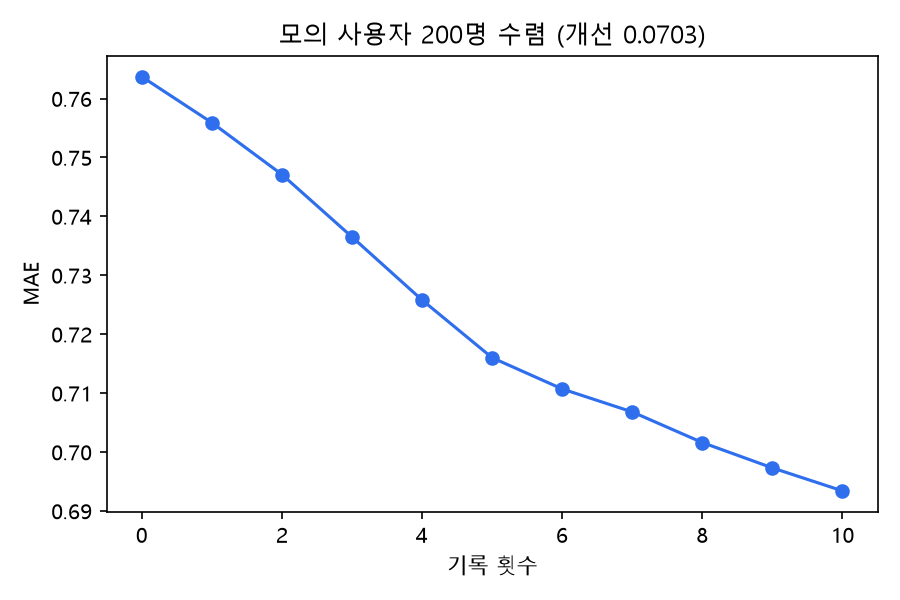
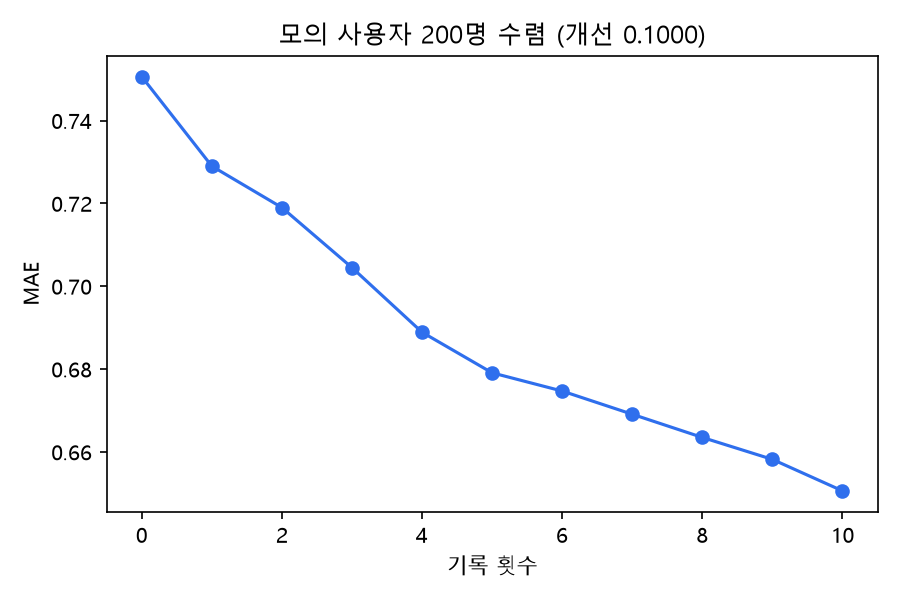
docs: 오픈판 브랜드 값·특징 모델 반영, 재적재 후 커버리지·공모전 수치 갱신
- ADR 0012 "오픈판 브랜드 값" 절(우선순위·20개 원두 표·한계), ADR 0011 후속 메모.
- README: 오픈판 속성 예측은 이웃 평균만이 아니라 산미·단맛 특징 모델(ADR 0011), 국내 로스터리 209건
  (217건 중 블루보틀 중복 8건 제외), 전체 DB 재적재 커버리지 9,257/디카페인 180/태그 7,616.
- 공모전 초안: render_numbers.py로 수치 블록 재생성(원두 1,864·디카페인 25·LOO·수렴), 본문 수치 동기화,
  compare3 시점 디카페인 수치에 주석. 수렴 그림 재생성.
- violations 0/102(전체·오픈 모두).

Claude-Session: https://claude.ai/code/session_01RNMVqK4ExyuYrxuAd2885V

diff --git a/docs/adr/0012-official-brand-beans.md b/docs/adr/0012-official-brand-beans.md
@@ -105,16 +105,73 @@
   공식 문구가 말하지 않는 값은 모델이 사실상 사전값에 가깝게 답한다(메가 산미 2.44 등). 그래서 향미 태그는 모델보다
   공식 단어를 우선했고, 공식 단어가 없을 때 모델 태그(메가 디카페인 "woody" 0.85 등)는 출처가 `official_notes_model`
   로 남는다.
-- **오픈판**: 같은 `brands.yaml`을 쓰므로 오픈판 카드도 이 값을 쓴다. 값 자체는 공식 페이지 사실 + 규칙/모델 출력이며
-  리뷰 원문을 담지 않는다. 다만 모델은 전체판(coffeereview 포함 학습)이다 — 오픈판에서 이 값을 쓰는 게 라이선스상
-  문제인지는 공모전 문서 쪽(ADR 0011 담당)에서 판단할 일로 남긴다.
+- **오픈판**: 처음엔 같은 `brands.yaml` 값을 오픈판 카드도 썼는데, 그 모델은 전체판(coffeereview 라벨로 학습,
+  [ADR 0008](0008-learned-tag-model.md)/[0009](0009-learned-attribute-model.md))이라 제출본에 둘 수 없다 → 아래
+  [오픈판 브랜드 값](#오픈판-브랜드-값)에서 라이선스 제약 없는 출처만으로 따로 만든다.
 - 공식 게이지가 생기면(`gauges`) 스크립트가 그 값을 먼저 쓴다. 투썸(봇 차단)·컴포즈(설명 없음)는 브랜드가 공개하기
   전까지 추정이다.
+
+## 오픈판 브랜드 값
+
+오픈판(`DATA_VARIANT=open`, 공모전 제출본)은 coffeereview에서 나온 것은 아무것도 담으면 안 되는데, 위 값의
+`official_notes_model`은 coffeereview 라벨로 학습한 전체판 속성/태그 모델(`config/attr_model.json`,
+`config/tag_model.json`) 출력이다. 그래서 `brands.yaml`에 오픈판 전용 `bean_open`/`decaf_bean_open`을 따로 두고
+(`BrandRecord`·`brands` 테이블 같은 이름의 컬럼), 앱은 `DATA_VARIANT=open`일 때 그 컬럼만 읽는다
+(`app/repo.py` `brand_bean_columns`). `scripts/competition/build_open_db.sh`는 적재 뒤 `coffee_open`의
+`bean`/`decaf_bean`도 오픈 값으로 덮어써 제출본 DB에는 전체판 값이 아예 남지 않는다.
+
+값마다 우선순위(`scripts/derive_brand_beans.py --variant open` → `data/eval/brand_beans_derived_open.json`):
+
+1. `official_gauge` — 공식 1~5 수치(현재 없음).
+2. `official_cue` — 공식 문구의 명시적 단서(`app/core/textcues.attr_cues`: "묵직한 바디", "상큼한", "달콤").
+   향미는 **브랜드가 직접 쓴 향미 단어만**(`official_word_tags`) — 태그 모델은 쓰지 않는다.
+3. `open_feature_model` — 산미·단맛만(바디는 탑재 안 됨): 로스터리 게이지 특징 모델
+   ([ADR 0011](0011-roaster-gauges-feature-model.md), `config/feature_model_open.json`)에 공식 **사실**만 넣는다 —
+   단일 산지 국가(여러 나라면 블렌드; 커피빈의 "원산지: 미국(로스팅 국가)"는 산지가 아님), 공식 로스팅 단계,
+   디카페인 공정(워터 프로세스 → 물 공정), 공식 향미 단어의 SCA 대분류. 브랜드 원두에는 이웃이 없어 `nbr`
+   특징은 중앙값(0)이다. 공식 설명이 아예 없는 원두(`status: unavailable`)에는 쓰지 않는다.
+4. `estimate` — ADR 0012 이전의 손 추정값(`git show bd0a6f6^:data/curated/brands.yaml`, 뉴스·notes 기반).
+
+"문구"=`official_cue`, "특징"=`open_feature_model`(괄호 안은 반올림 전 예측), "추정"=`estimate`. 마지막 열은
+같은 원두의 전체판 값이다.
+
+| 브랜드 | 원두 | 산미 | 바디 | 단맛 | 향미 | 전체판(산미/바디/단맛) |
+|---|---|---|---|---|---|---|
+| 스타벅스 | 하우스 | **2** (특징 1.88) | **4** (추정) | **4.5** (특징 4.3) | caramelized (문구) | 2/4/2.5 |
+| 스타벅스 | 디카페인 | **2** (특징 2.11) | **3** (추정) | **3** (특징 2.89) | chocolate, caramelized (추정) | 2/3/2 |
+| 투썸플레이스 | 하우스 | **2** (추정) | **4** (추정) | **2** (추정) | dark chocolate, nutty (추정) | 2/4/2 |
+| 투썸플레이스 | 디카페인 | **2** (추정) | **3** (추정) | **3** (추정) | chocolate, nutty (추정) | 2/3/3 |
+| 메가MGC커피 | 하우스 | **2** (특징 2.18) | **4.5** (문구 "묵직한 바디") | **3.5** (특징 3.64) | nutty, dark chocolate (추정) | 2.5/4.5/3.5 |
+| 메가MGC커피 | 디카페인 | **2** (특징 2.16) | **4.5** (문구 "묵직한 바디") | **3.5** (특징 3.42) | nutty, chocolate (추정) | 2/4.5/3.5 |
+| 컴포즈커피 | 하우스 | **1** (추정) | **4** (추정) | **2** (추정) | nutty, dark chocolate (추정) | 1/4/2 |
+| 컴포즈커피 | 디카페인 | **2** (추정) | **4** (추정) | **2** (추정) | nutty, dark chocolate (추정) | 2/4/2 |
+| 빽다방 | 하우스 | **1** (특징 1.0) | **4.5** (문구 "묵직한 바디") | **4** (문구 "단맛") | cinnamon, brown sugar, dark chocolate (문구) | 1.5/4.5/4 |
+| 빽다방 | 디카페인 | **2** (추정) | **3** (추정) | **2** (추정) | chocolate (추정) | 2/3/2 |
+| 이디야커피 | 하우스 | **2** (특징 2.18) | **3** (추정) | **3.5** (특징 3.6) | smoky (문구) | 2/4/3 |
+| 이디야커피 | 디카페인 | **2** (추정) | **3** (추정) | **3** (추정) | chocolate, caramelized (추정) | 2/3/3 |
+| 할리스 | 하우스 | **1.5** (문구 "부드러운 산미") | **3** (추정) | **3.5** (특징 3.64) | chocolate, nutty (추정) | 1.5/3/4 |
+| 할리스 | 디카페인 | **2** (특징 2.16) | **2** (추정) | **4** (문구 "단맛") | brown sugar (추정) | 2.5/2/4 |
+| 폴바셋 | 하우스 | **4.5** (문구 "상큼한") | **3** (추정) | **4** (문구 "Sweet") | chocolate (문구) | 4.5/3.5/4 |
+| 폴바셋 | 디카페인 | **2** (특징 2.16) | **3** (추정) | **3.5** (특징 3.42) | chocolate, citrus fruit (추정) | 3/3/3.5 |
+| 블루보틀 | 하우스 | **2** (특징 1.81) | **3** (추정) | **4** (문구 "달콤") | chocolate (문구) | 2/4/4 |
+| 블루보틀 | 디카페인 | **2** (특징 2.15) | **3** (추정) | **4** (문구 "단맛") | molasses (문구) | 3/2.5/4 |
+| 커피빈 | 하우스 | **2** (특징 1.96) | **4** (추정) | **4** (특징 4.19) | dark chocolate, caramelized (추정) | 2/4/2 |
+| 커피빈 | 디카페인 | **2** (특징 2.02) | **3** (추정) | **4** (문구 "달콤") | caramelized (문구) | 2/2.5/4 |
+
+출처 분포(값 80개): 문구 18 · 특징 모델 20 · 추정 42. 여섯 원두(투썸 2·컴포즈 2·빽다방 디카페인·이디야 디카페인)는
+전부 추정이고, 공식 향미 단어가 없는 원두는 향미가 추정으로 남는다(메가·할리스·폴바셋 디카페인 등).
+
+- **특징 모델은 블렌드에 대해 거의 사전값이다.** 브랜드 원두는 대부분 "블렌드/산지 미상"이라 산미는 절편 근처(1.8~2.2
+  → 전부 2)로 모이고, 단맛은 블렌드(+0.68)·강배전(+0.55) 가중치 때문에 스타벅스 하우스 4.3·커피빈 하우스 4.19처럼
+  높게 나온다(로스터리 게이지 라벨에서 배운 "블렌드·강배전 = 단맛 높음" 관행). 전체판(모델 2.37/추정 2)과 방향이
+  다르다 — 라이선스를 지키는 대가로 받아들이고, 값마다 출처를 남겨 둔다.
+- 조건 위반(오픈판 DB `coffee_open`, `data/eval/open/phase2_violations.json`): **0/102** — 전체판과 같다.
 
 ## 재현
 
 ```bash
 uv run python scripts/derive_brand_beans.py --before <이전 brands.yaml>   # → data/eval/brand_beans_derived.json
+uv run python scripts/derive_brand_beans.py --variant open   # 오픈판 → data/eval/brand_beans_derived_open.json + YAML 줄
 # brands.yaml 반영 후 DB에는 brands.bean/decaf_bean만 갱신(또는 pipeline run --only normalize --only load)
 uv run python -m app.eval violations
 ```

diff --git a/docs/competition/data-recipe-draft.md b/docs/competition/data-recipe-draft.md
@@ -78,7 +78,7 @@
 - **도구·기법**: Python, PostgreSQL + pgvector(HNSW), NVIDIA nemotron-3-embed-1b 임베딩(앞 1024차원 사용), 로컬 LLM(qwen3.5 9B)으로 빈 칸 구조화, LangGraph로 추천·원두 분석·기록 흐름을 구성, FastAPI + Next.js 웹앱.
 
 ### A-5. 데이터 개요 및 데이터 활용(분석) 방안 (300자 이상)
-**데이터**: 원두 1,832개(오픈+로스터리판: CQI 1,546 · RoasterDB 100 · 블루보틀 코리아 9 · 국내 로스터리 177), 프랜차이즈 메뉴 304종, 브랜드 10곳의 디카페인 정보, SCA 향미 분류 121개 한국어 매핑. 출처와 라이선스는 아래 3장 표에 정리했다.
+**데이터**: 원두 1,864개(오픈+로스터리판: CQI 1,546 · RoasterDB 100 · 블루보틀 코리아 9 · 국내 로스터리 209), 프랜차이즈 메뉴 304종, 브랜드 10곳의 디카페인 정보, SCA 향미 분류 121개 한국어 매핑. 출처와 라이선스는 아래 3장 표에 정리했다.
 **전처리**: ① 소스별 원본 스냅샷을 날짜별로 저장 ② 공통 스키마로 정규화(산지·가공·로스팅 표기 통일, 이름·설명에서 디카페인 판별) ③ 한국어 향미 노트 단어("초콜릿, 건무화과, 호두")를 SCA 휠 한국어 이름·별칭으로 규칙 매핑 ④ 규칙으로 못 채운 산미·바디·단맛만 로컬 LLM이 JSON 스키마로 채우고, 근거가 없으면 null로 둠 ⑤ 이름·산지·가공·노트를 nemotron-3-embed-1b로 임베딩해 pgvector에 한 트랜잭션으로 적재 ⑥ 우유 포함 여부는 메뉴 이름 302종에 사람이 직접 라벨을 붙여 평가 기준으로 따로 둠.
 **분석**: 하드 조건 필터 → 취향 적합도(속성 0.6 + 향미 0.4) → MMR로 다양성을 살린 상위 3개 → LLM 설명(실패 시 템플릿). 처음 보는 원두는 코사인 유사도 상위 10개 이웃의 가중 평균으로 산미·바디를 예측하고, 이웃 간 일치도로 신뢰도(high/medium/low)를 매긴다. 검증은 CQI 원두 200개를 고정한 leave-one-out으로 하고, 데이터 구성(전체/오픈/오픈+로스터리)만 바꿔 같은 지표를 비교했다.
 
@@ -192,7 +192,7 @@
    자체가 작아 바디 값이 있는 이웃 3개(예측에 필요한 최소치)를 못 채우는 대상이 더 많다.
 
    참고로 CQI로 대상을 제한하지 않고 제출본 DB(`coffee_open`) 전체로 돌린 별도 LOO(`data/eval/open/
-   phase2_loo.json`)는 대상 200개 그대로 나온다 — 산미 ±1 0.5126(n=199, 재라벨 전 0.5202/n=198과
+   phase2_loo.json`)는 대상 200개 그대로 나온다 — 산미 ±1 0.5075(n=199, 재라벨 전 0.5202/n=198과
    거의 같다), 바디는 그 200개 중 실제로 무게감이 있는 **6개뿐**이라 n=6(±1 이내 1.0) — 오픈판은
    CQI(87.7%)가 절대다수라 바디 정답을 가진 원두 자체가 원래도 희소했다는 뜻이다. 자세한 내용은
    [ADR 0010](../adr/0010-body-heaviness.md).
@@ -201,13 +201,13 @@
 
    ![디카페인 후보 수와 top5 표](images/03_decaf_coverage.png)
 
-   디카페인 후보는 전체(coffeereview 포함) 178개, 오픈 6개, 오픈+로스터리(제출본) 23개다. "오픈"의 디카페인+산미 top5는 해외 RoasterDB 4개 + 블루보틀 코리아 1개(5위는 산미 정보가 없어 점수 0.5375)뿐이라 국내에서 살 수 있는 것이 사실상 없다. 제출본("오픈+로스터리")에서는 **1위 모모스커피 「원두 에티오피아 구지 우라가 시코 내추럴 디카페인」(0.9113)**과 **3위 커피 리브레 「[골드문트] [디카페인] 에티오피아 예가체프 할로 베리티 내추럴」(0.8777)** 두 곳이 들어와 국내에서 살 수 있는 후보가 생긴다(전체판에서도 모모스커피는 2위, 커피 리브레는 5위). 국내 로스터리 데이터의 기여는 LOO 정확도가 아니라 이런 **커버리지**임을 이 그림이 보여준다.
+   디카페인 후보는 전체(coffeereview 포함) 178개, 오픈 6개, 오픈+로스터리(제출본) 23개다(`phase2_compare3.json` 실행 시점, 국내 로스터리 10곳·177건 기준 — 이후 G로스팅·내일의커피가 더해져 현재 제출본 DB의 디카페인 원두는 25개, 1장 수치 표). "오픈"의 디카페인+산미 top5는 해외 RoasterDB 4개 + 블루보틀 코리아 1개(5위는 산미 정보가 없어 점수 0.5375)뿐이라 국내에서 살 수 있는 것이 사실상 없다. 제출본("오픈+로스터리")에서는 **1위 모모스커피 「원두 에티오피아 구지 우라가 시코 내추럴 디카페인」(0.9113)**과 **3위 커피 리브레 「[골드문트] [디카페인] 에티오피아 예가체프 할로 베리티 내추럴」(0.8777)** 두 곳이 들어와 국내에서 살 수 있는 후보가 생긴다(전체판에서도 모모스커피는 2위, 커피 리브레는 5위). 국내 로스터리 데이터의 기여는 LOO 정확도가 아니라 이런 **커버리지**임을 이 그림이 보여준다.
 
 4. **개인화 수렴** ([`images/04_convergence.png`](images/04_convergence.png))
 
    ![모의 사용자 수렴 곡선](images/04_convergence.png)
 
-   모의 사용자 200명이 마신 기록을 0회에서 10회까지 쌓는 동안 취향 프로필 예측 오차(MAE)가 0.7637에서 0.6934로 줄었다(개선 0.0703, `phase2_convergence.json`). 곡선이 매끄럽게 내려가 초반 몇 번의 기록만으로도 개인화 효과가 나타나기 시작함을 보여준다.
+   모의 사용자 200명이 마신 기록을 0회에서 10회까지 쌓는 동안 취향 프로필 예측 오차(MAE)가 0.7506에서 0.6506으로 줄었다(개선 0.1, `phase2_convergence.json`). 곡선이 매끄럽게 내려가 초반 몇 번의 기록만으로도 개인화 효과가 나타나기 시작함을 보여준다.
 
 5. **응답 지연시간과 설명 품질** ([`images/05_latency_quality.png`](images/05_latency_quality.png))
 
@@ -245,12 +245,12 @@
 
 | 항목 | 값 |
 |---|---|
-| 원두 수 | 1832 |
-| 임베딩 보유 | 1832 |
-| 향미 태그 보유 | 203 |
-| 산미 보유 | 1623 |
-| 디카페인 | 23 |
-| 디카페인(향미 태그 보유) | 16 |
+| 원두 수 | 1864 |
+| 임베딩 보유 | 1864 |
+| 향미 태그 보유 | 230 |
+| 산미 보유 | 1699 |
+| 디카페인 | 25 |
+| 디카페인(향미 태그 보유) | 18 |
 
 **브랜드별 메뉴 수**
 
@@ -268,8 +268,8 @@
 
 | 속성 | 정확히 일치 | ±1 이내 | n |
 |---|---|---|---|
-| 산미 | 0.2513 | 0.5126 | 199 |
-| 바디 | 0.6667 | 1 | 6 |
+| 산미 | 0.2462 | 0.5075 | 199 |
+| 바디 | 0.5 | 1 | 6 |
 | 단맛 | 0.7143 | 1 | 7 |
 
 **신뢰도별 산미 ±1 이내 비율**
@@ -277,12 +277,12 @@
 | 신뢰도 | ±1 이내 | n |
 |---|---|---|
 | low | 0.3649 | 74 |
-| medium | 0.5604 | 91 |
-| high | 0.7059 | 34 |
+| medium | 0.5543 | 92 |
+| high | 0.697 | 33 |
 
 **개인화 수렴** (`phase2_convergence.json`)
 
-- 모의 사용자 200명 × 기록 10회: MAE 0.7637 → 0.6934 (개선 0.0703)
+- 모의 사용자 200명 × 기록 10회: MAE 0.7506 → 0.6506 (개선 0.1)
 
 **설명 생성 지연시간** (`phase2_bench.json`, nvidia/nemotron-3-super-120b-a12b)
 

diff --git a/docs/adr/0011-roaster-gauges-feature-model.md b/docs/adr/0011-roaster-gauges-feature-model.md
@@ -80,6 +80,12 @@ Spearman **0.03**. MAE/±1은 전체 평균보다 나쁘다(산미 1.13/0.47 vs 
 - 디카페인·게이샤처럼 표본이 몇 개뿐인 특징의 가중치는 잡음에 가깝다(예: 슈가케인 디카페인 → 산미↑).
 - 1킬로커피 원두에는 노트 단어가 없어(사이트가 산문으로만 표기) 노트 특징이 0이다.
 
+## 후속: 프랜차이즈 브랜드 원두 (2026-09-28)
+오픈판의 브랜드 원두 값(`brands.yaml` `bean_open`/`decaf_bean_open`)도 이 특징 모델로 산미·단맛을 채운다 — 공식
+문구의 명시적 단서가 먼저, 그다음 이 모델(공식 산지/블렌드·로스팅·디카페인 공정·공식 향미 단어만 입력, 이웃 없음),
+없으면 손 추정. 전체판 학습 모델(coffeereview 라벨)은 오픈판 브랜드 값에 쓰지 않는다. 표와 한계는
+[ADR 0012 오픈판 브랜드 값](0012-official-brand-beans.md#오픈판-브랜드-값).
+
 ## 재현
 ```
 uv run python -m pipeline roasters-kr                      # 게이지 포함 재수집(캐시 사용)
